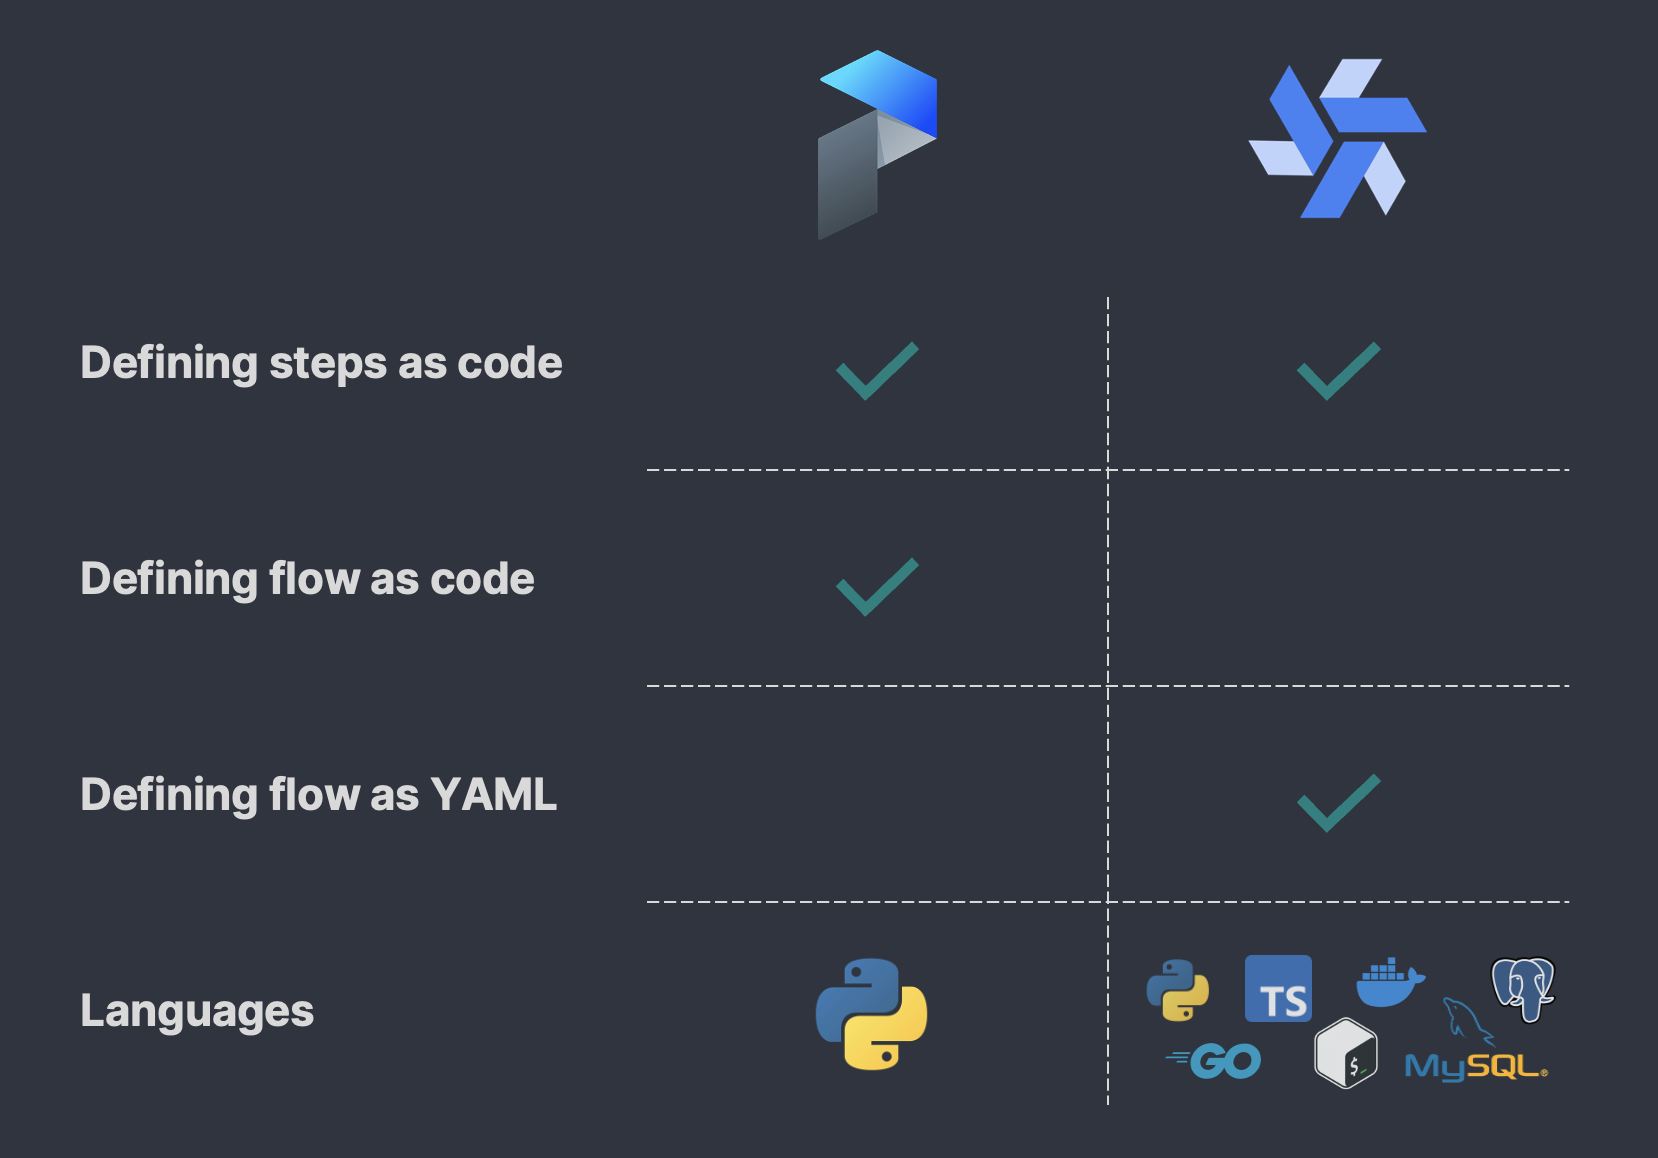
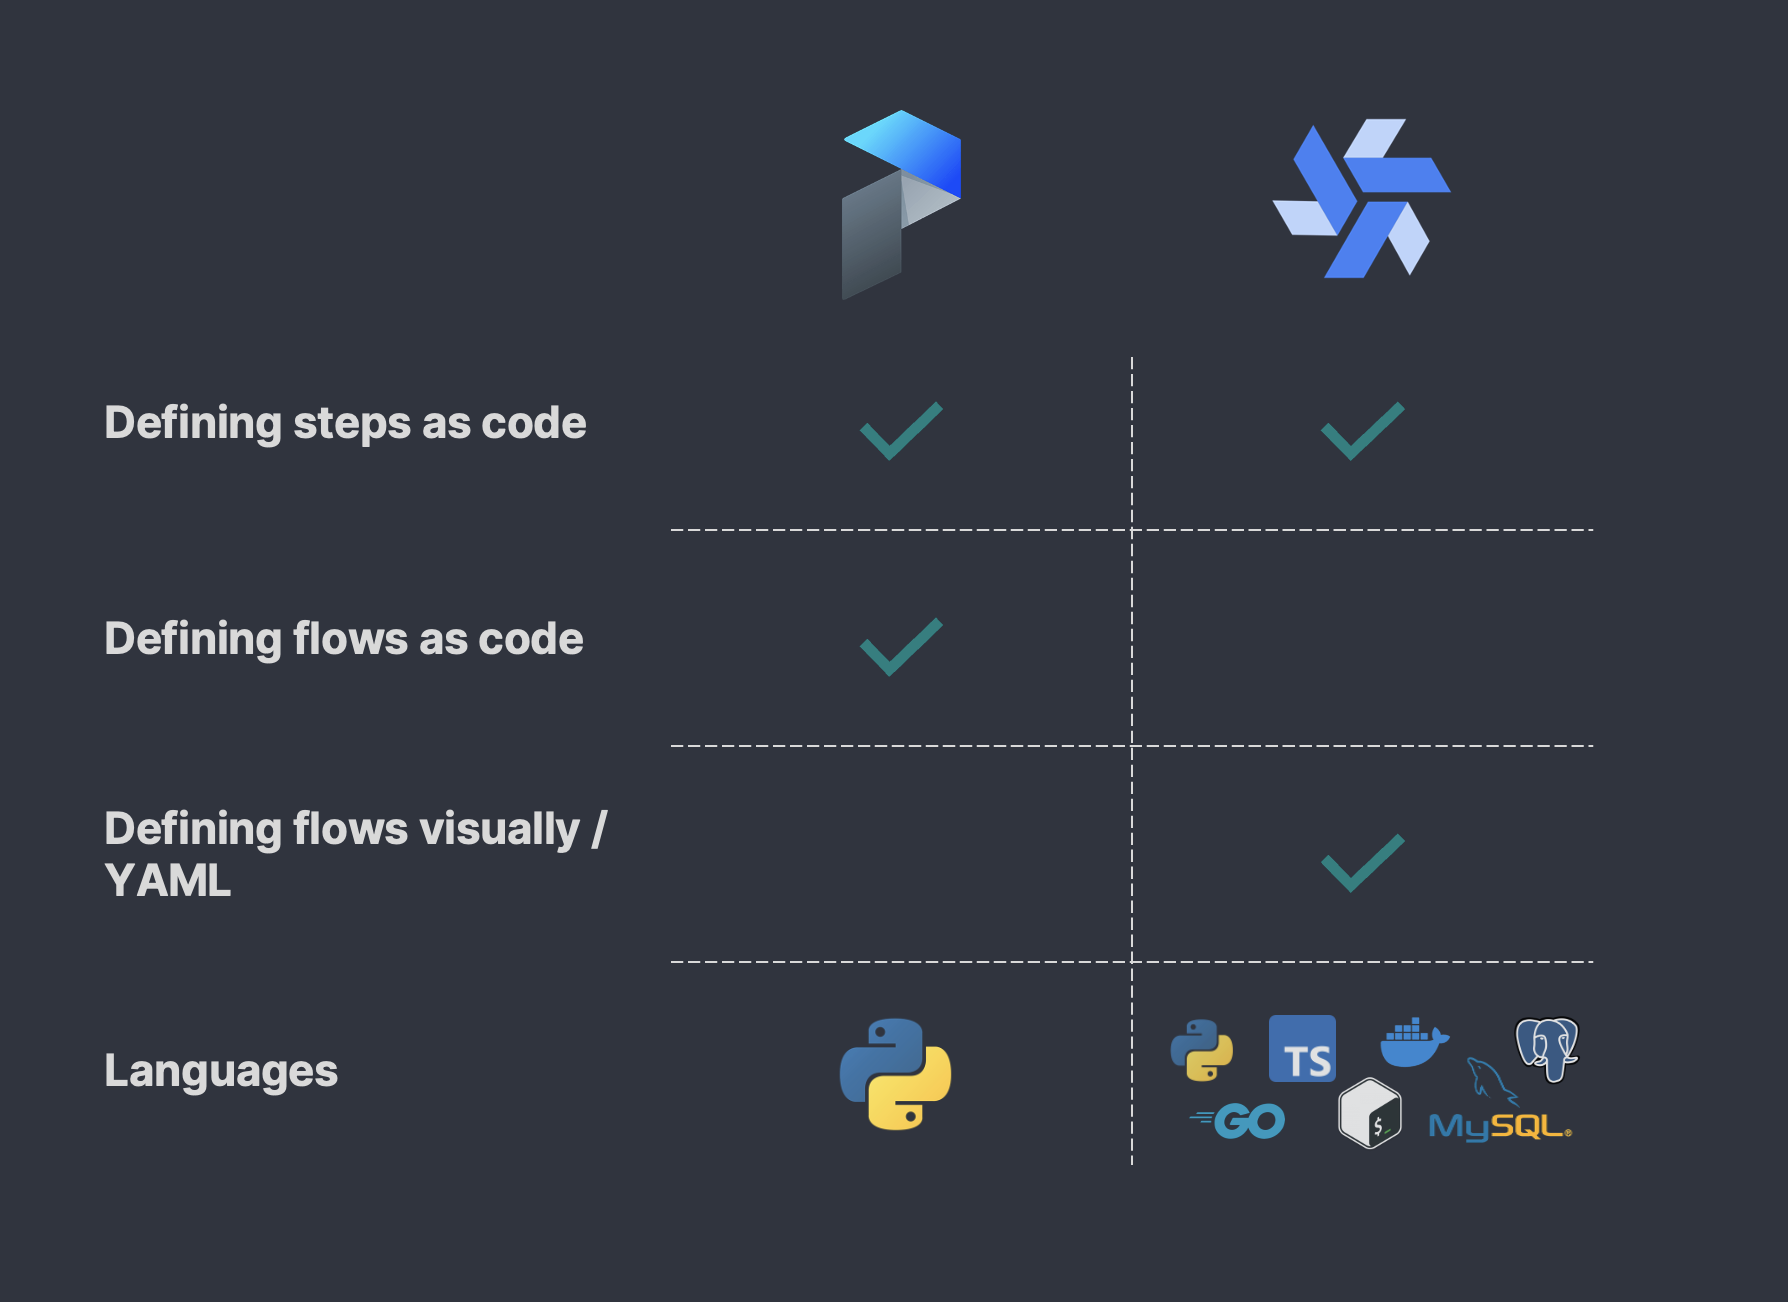
Table of contents & YAML

diff --git a/docs/compared_to/prefect.md b/docs/compared_to/prefect.md
@@ -2,19 +2,25 @@ import DocCard from '@site/src/components/DocCard';
 
 # Alternative to Prefect for building Workflows
 
-Prefect is great for building workflows. Windmill does it too, but it gives its users more control to orchestrate their data pipelines without constant back and forth between the code and the UI.
-
-While the approaches to observing and monitoring ETL data are similar, Windmill provides users with much more control and a broader range of uses from local development to low code, complemented by a script and app editors.
-
 ![Windmill Prefect](../assets/compared_to/windmill_prefect.png "Windmill Prefect")
+
+Both Windmill and Prefect support writing complex workflows and ETL with code and run them at scale.
+We highlight below the main differences between the 2 on the following axis:
+- [Alternative to Prefect for building Workflows](#alternative-to-prefect-for-building-workflows)
+	- [Open Source and Hosting](#open-source-and-hosting)
+	- [Workflows and Code](#workflows-and-code)
+	- [Triggers](#triggers)
+	- [Execution Runtime and Coldstarts](#execution-runtime-and-coldstarts)
+		- [Benchmark #1](#benchmark-1)
+		- [Benchmark #2](#benchmark-2)
+	- [Observability and Monitoring](#observability-and-monitoring)
+	- [AI Generation](#ai-generation)
+	- [Pricing](#pricing)
+	- [Scripts and Apps](#scripts-and-apps)
 
 <a href="https://www.prefect.io/" rel="nofollow">Prefect</a> is a data workflow management system, designed to help teams build, run, and monitor data workflows. It provides tools for orchestrating data pipelines, managing their execution, and ensuring data integrity.
 
-<br/><br/>
-
-Below you will find our thoughts on the major differences between Prefect and Windmill.
-
-## Open Source & Hosting
+## Open Source and Hosting
 
 [Windmill](https://www.windmill.dev/) is fully open source. This implies that Windmill can be self-hosted with just a few commands, providing cost-effective and secure solutions.
 
@@ -90,7 +96,7 @@ The structuring of the flow and the configurations for each step are defined fro
 
 In particular, Windmill [generates automatically UIs](../core_concepts/6_auto_generated_uis/index.md) for flows and steps and lets users [test](../core_concepts/23_instant_preview/index.mdx) flows, steps or flow until a given step, from the UI.
 
-Flows can be [developed locally](../advanced/4_local_development/index.mdx) in YAML. Windmill will soon unveil an extension to facilitate the editing of flows in local development.
+Flows can be [defined visually / YAML](../advanced/4_local_development/index.mdx) on a local environment. Windmill will soon unveil an extension to facilitate the editing of flows in local development.
 
 ![Windmill compared to Prefect](../assets/compared_to/windmill_compared_prefect.png "Windmill compared to Prefect")
 
@@ -122,7 +128,7 @@ While Windmill also allows configuration and triggers from the terminal, the pla
 	/>
 </div>
 
-## Execution Runtime & Coldstarts
+## Execution Runtime and Coldstarts
 
 Windmill's architecture allows runnning each task on the current fleet of worker
 (which you can auto-scale automatically) and hence do not suffer from cold start.
@@ -180,7 +186,7 @@ providing insights into the performance metrics.
 <div class="grid grid-cols-2 gap-6 mb-4">
 	<DocCard
 		title="Benchmarks"
-		description="This folder includes a small deno/ts utility to benchmark execution of jobs & flows."
+		description="This folder includes a small deno/ts utility to benchmark execution of jobs and flows."
 		href="https://github.com/windmill-labs/windmill/tree/main/benchmarks"
 	/>
 	<DocCard
@@ -190,7 +196,7 @@ providing insights into the performance metrics.
     />
 </div>
 
-## Observability & Monitoring
+## Observability and Monitoring
 
 In terms of monitoring and observability, Windmill and Prefect's cloud app fulfill the same functions: audit logs, monitoring of runs and schedules, saving of flows, configurations (<a href="https://docs.prefect.io/latest/concepts/blocks/?h=blocks" rel="nofollow">Blocks</a> in Prefect, [Resource Types](../core_concepts/3_resources_and_types/index.mdx) in Windmill) and variables, [allocation of workers](../core_concepts/9_worker_groups/index.mdx).
 
@@ -273,7 +279,7 @@ Prefect pricing:
 	/>
 </div>
 
-## Scripts & Apps
+## Scripts and Apps
 
 This document has focused on the Flow Editor since it is the product closest to what Prefect does. However, Windmill also includes Script and App editors.
 
@@ -289,7 +295,7 @@ The [script editor](../script_editor/index.mdx) allows users to build long-runni
 	/>
 </div>
 
-The [app editor](../apps/0_app_editor/index.mdx) goes beyond auto-generated UIs and allows you to create your own customized UIs using drag-and-drop from components powered by Windmill scripts & flows."
+The [app editor](../apps/0_app_editor/index.mdx) goes beyond auto-generated UIs and allows you to create your own customized UIs using drag-and-drop from components powered by Windmill scripts and flows.
 
 ![App Editor](../assets/apps/0_app_editor/app-editor.png "App Editor")
 
